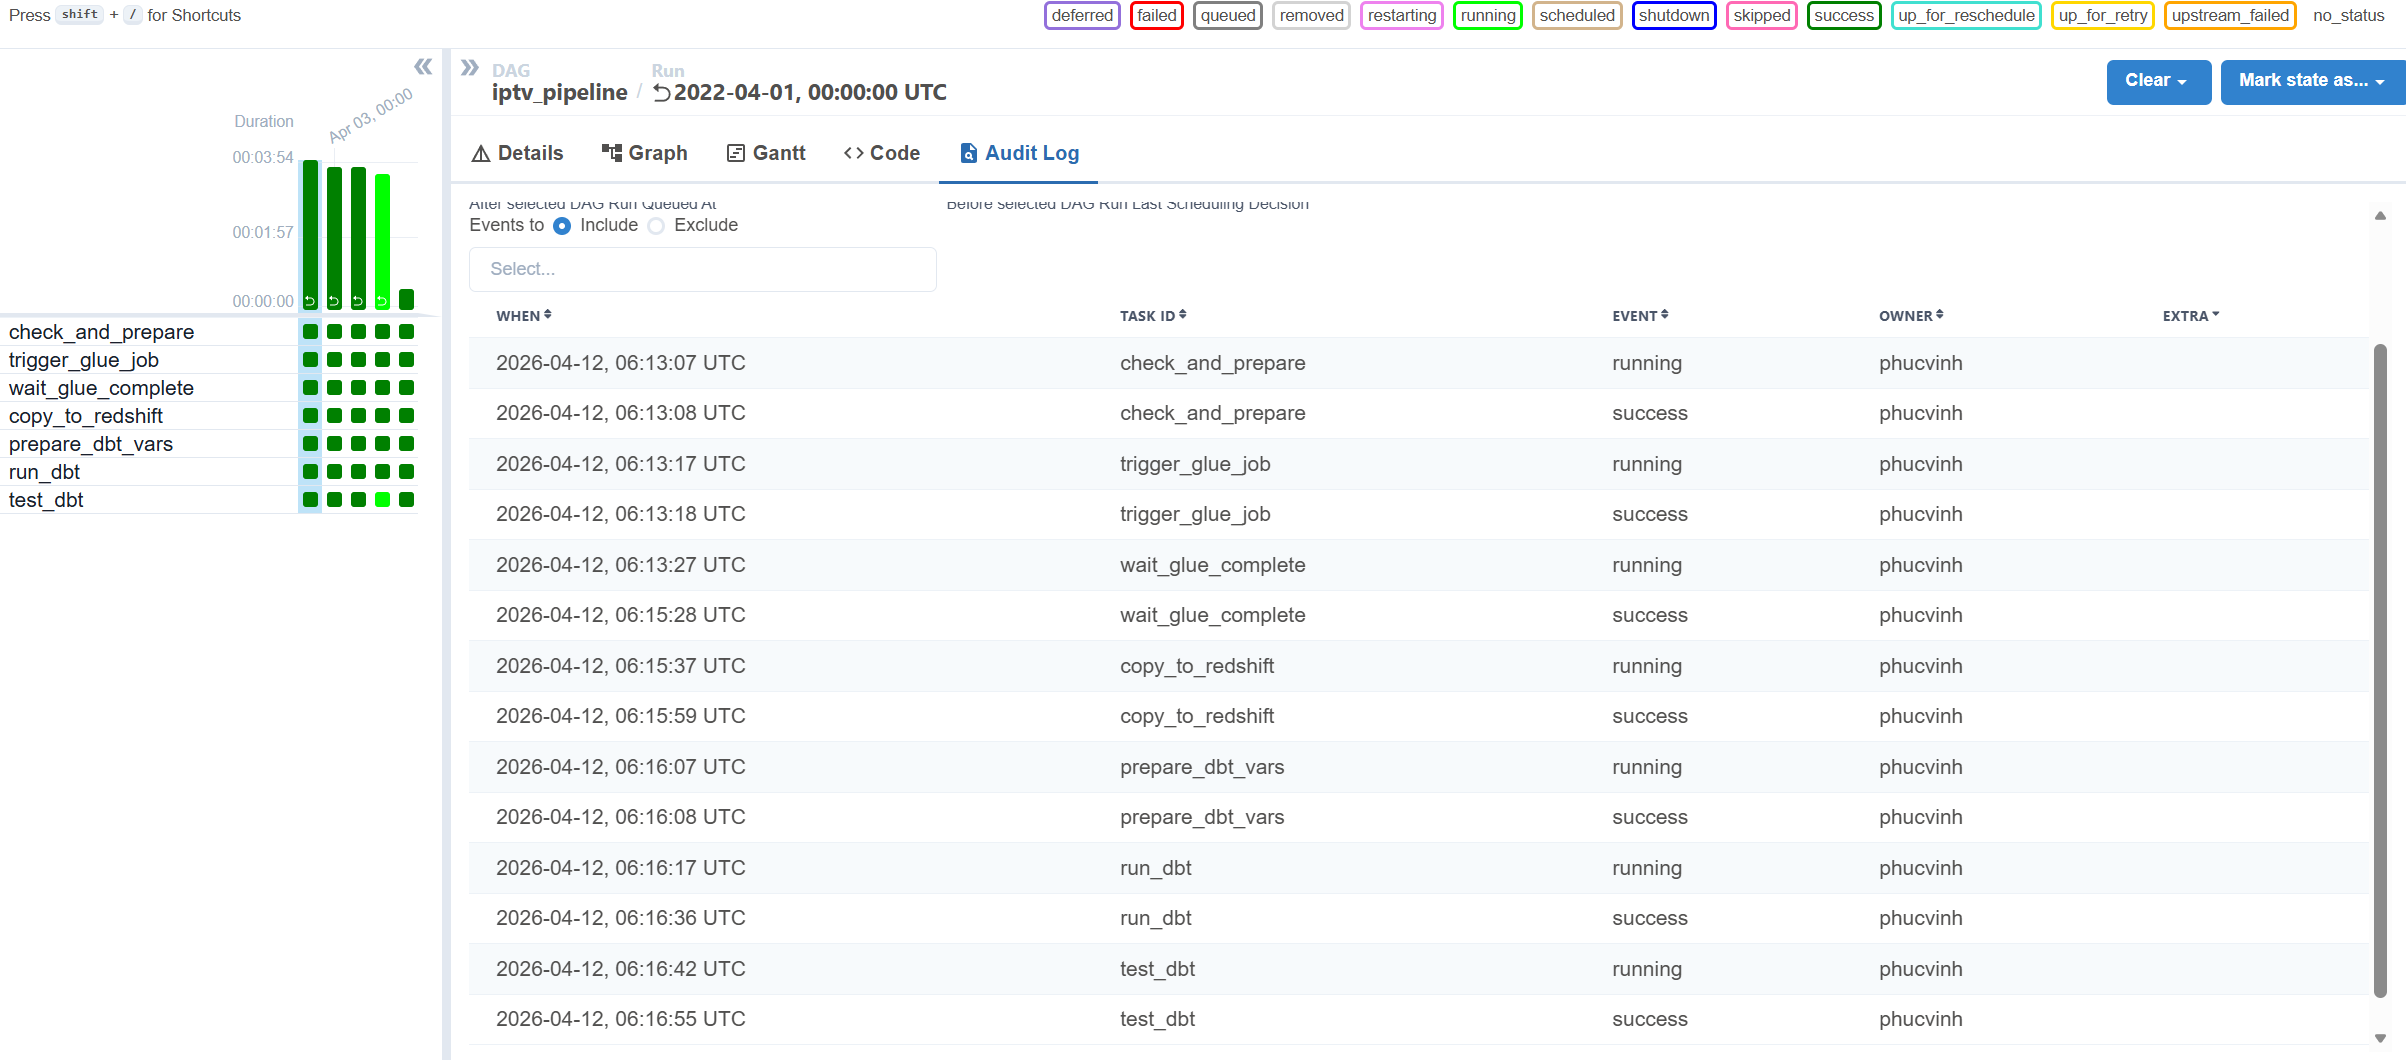
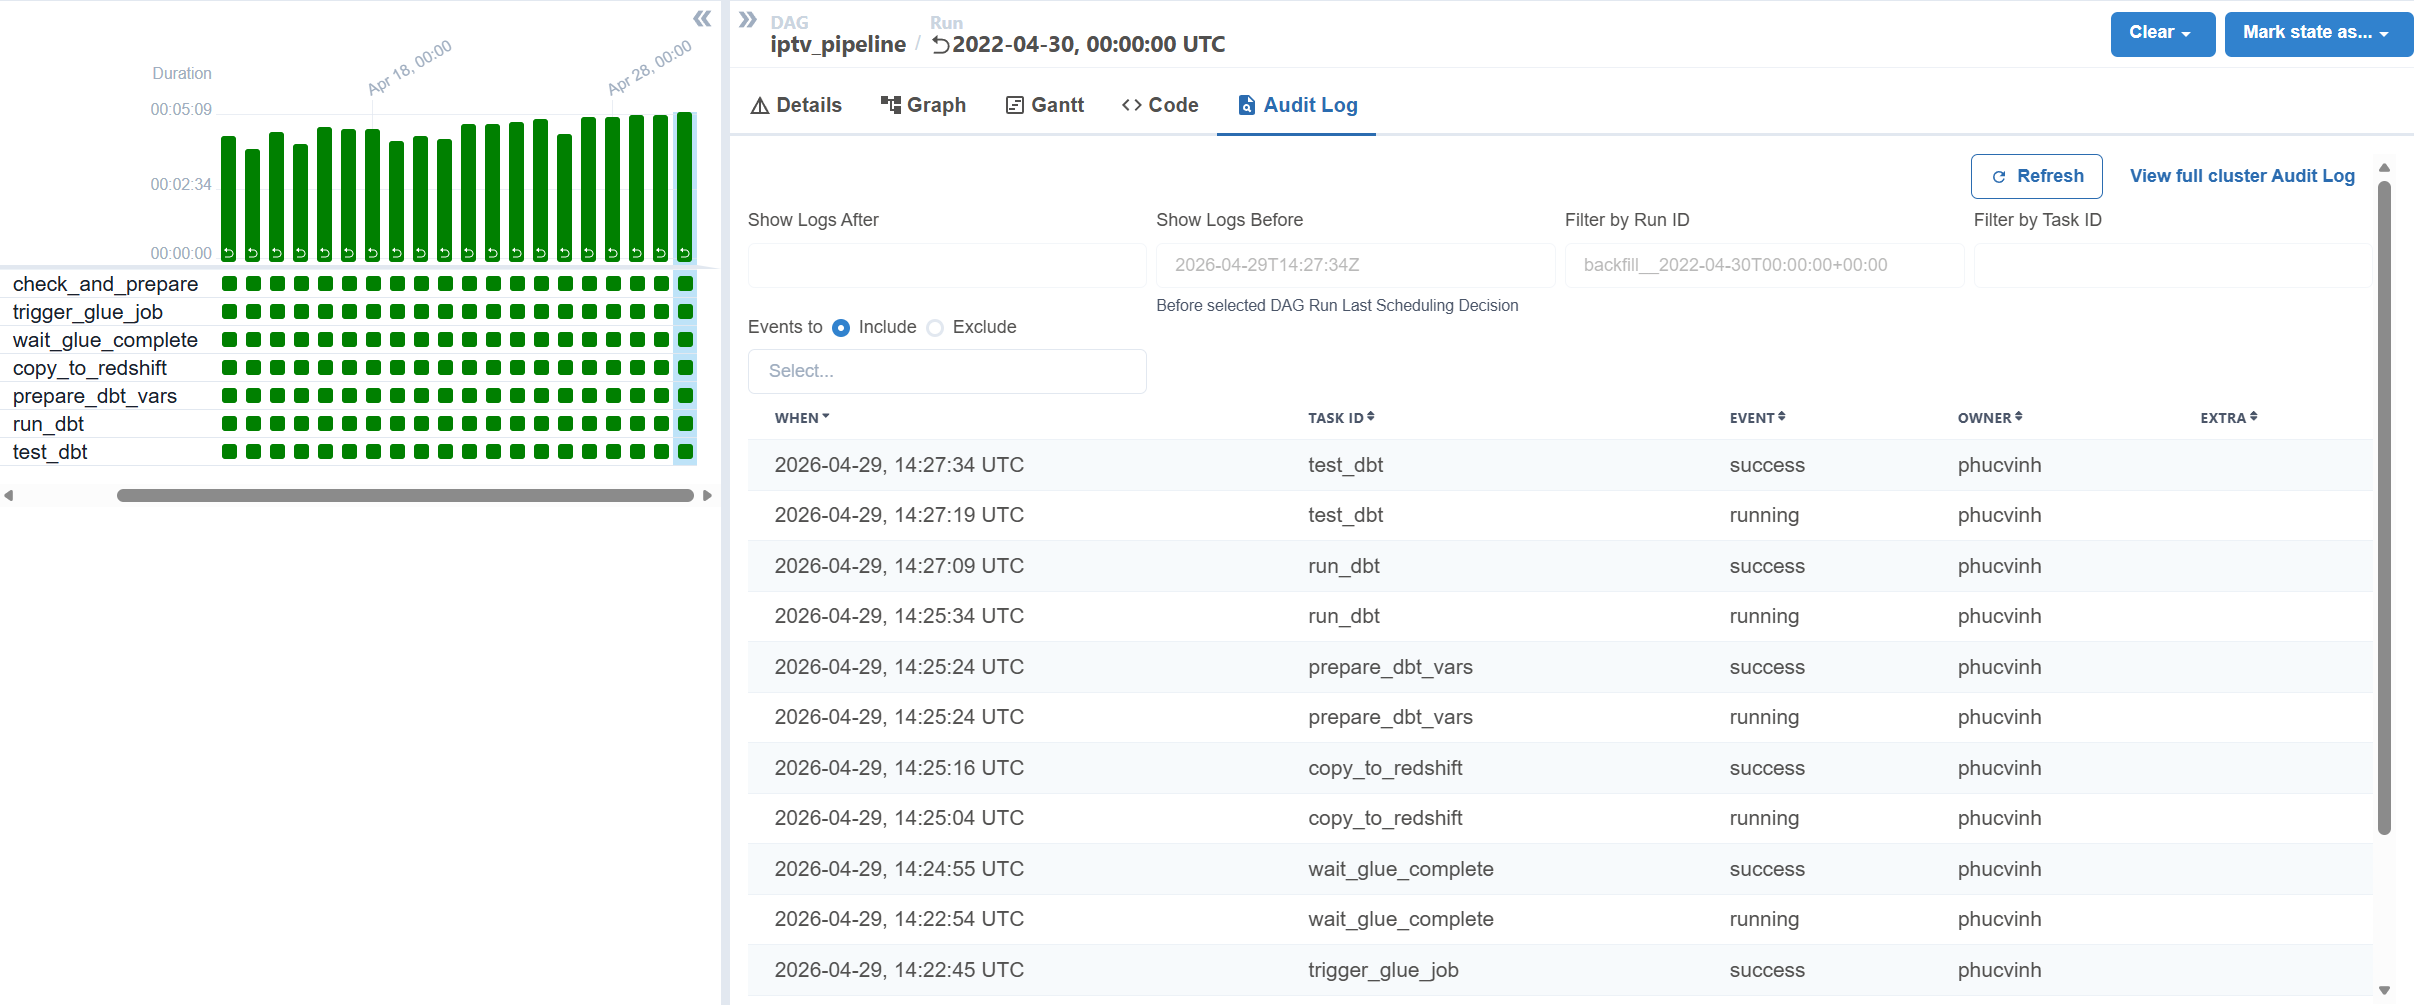
feat: update dbt models

diff --git a/glue/bronze_to_silver.py b/glue/bronze_to_silver.py
@@ -46,7 +46,7 @@ df = df_raw.select(
     F.col("_id").alias("event_id"),
     F.col("_source.Contract").alias("contract_id"),
     F.col("_source.Mac").alias("device_mac_raw"),
-    F.col("_source.TotalDuration").cast("integer").alias("total_duration_seconds"),
+    F.col("_source.TotalDuration").cast("long").alias("total_duration_seconds"),
     F.col("_source.AppName").alias("app_name"),
     F.lit(batch_date).alias("batch_date")
 )
@@ -85,6 +85,7 @@ mac_per_contract = df.filter(F.col("contract_id").isNotNull() & (F.trim(F.col("c
                      .groupBy("contract_id") \
                      .agg(F.countDistinct("device_mac").alias("mac_count"))
 
+# left join on = "contrac_id" sẽ bị đưa lên đầu làm cột số 1 dẫn đến event_id bị đẩy qua cột thứ hai => dữ liệu bị đảo chỗ
 df = df.join(mac_per_contract, on="contract_id", how="left") \
        .withColumn("device_flag",
            F.when(F.col("mac_count") == 1,                    "normal")
@@ -128,6 +129,20 @@ print(f"Event date range          : {df.agg(F.min('event_date').alias('min'), F.
 print("="*50)
 
 # ==================== WRITE SILVER ====================
+final_columns = [
+    "event_id",
+    "contract_id",
+    "total_duration_seconds",
+    "app_name",
+    "batch_date", #string - Được dùng làm Partition Key (khóa phân vùng) khi lưu file Parquet xuống S3 (year=2022/month=04/day=01
+    "event_date", #date - Ngày thực tế diễn ra sự kiện xem
+    "fraud_reasons",
+    "device_mac",
+    "device_flag",
+    "is_fraudulent"
+]
+df = df.select(*final_columns)
+
 df.write.mode("overwrite").parquet(OUTPUT_PATH)
 df.unpersist()
 

diff --git a/airflow/dags/iptv_daily_pipeline.py b/airflow/dags/iptv_daily_pipeline.py
@@ -170,10 +170,10 @@ def copy_to_redshift(**context):
 
 def prepare_dbt_vars(**context):
     ti = context["ti"]
-    batch_date_sql = ti.xcom_pull(key="batch_date_sql")
-    if not batch_date_sql:
-        raise AirflowSkipException("No batch_date_sql")
-    ti.xcom_push(key="dbt_batch_date", value=batch_date_sql)
+    batch_date = ti.xcom_pull(key="batch_date")
+    if not batch_date:
+        raise AirflowSkipException("No batch_date")
+    ti.xcom_push(key="dbt_batch_date", value=batch_date)
 
 default_args = {
     "owner": "phucvinh",
